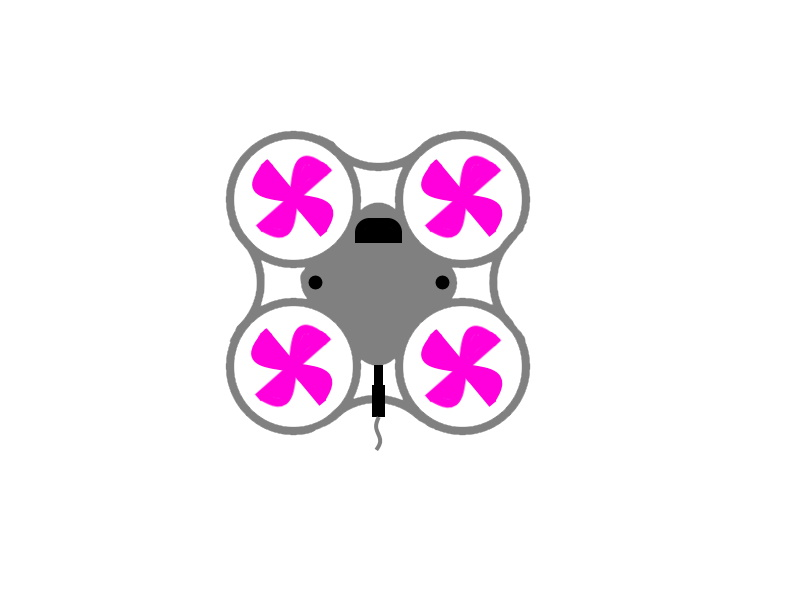
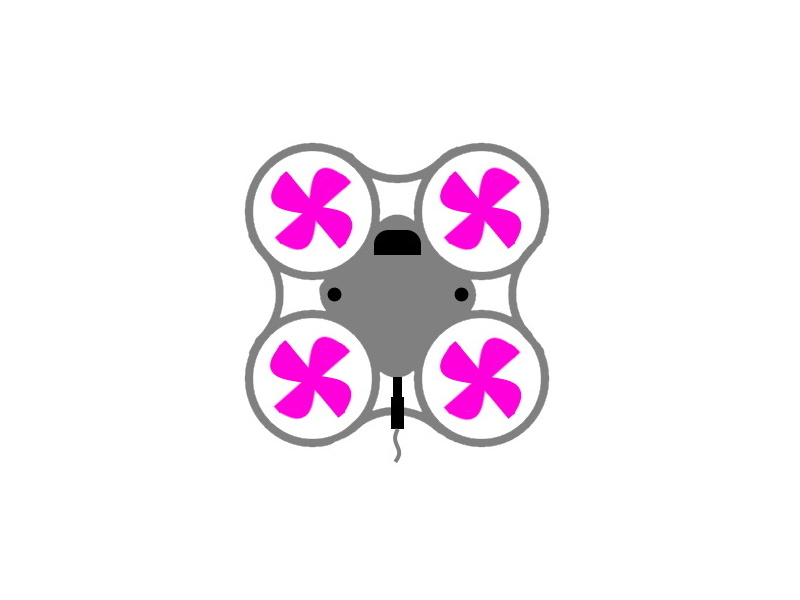
corrected image spacing for micorquad image, and adjusted css animations

Changed region(s): [[0.2812, 0.21, 0.6875, 0.78]]

diff --git a/index.html b/index.html
@@ -431,7 +431,7 @@
               </div>
             </div>
           </div>
-          <div class="col-lg-6 mt-4 mt-lg-0" data-aos="fade-right">
+          <div class="col-lg-6 mt-4 mt-lg-0" data-aos="fade-left">
             <div class="content pt-4 pt-lg-0 pl-0 pl-lg-3">
               <h3>Work & Education</h3>
 			  </div>
